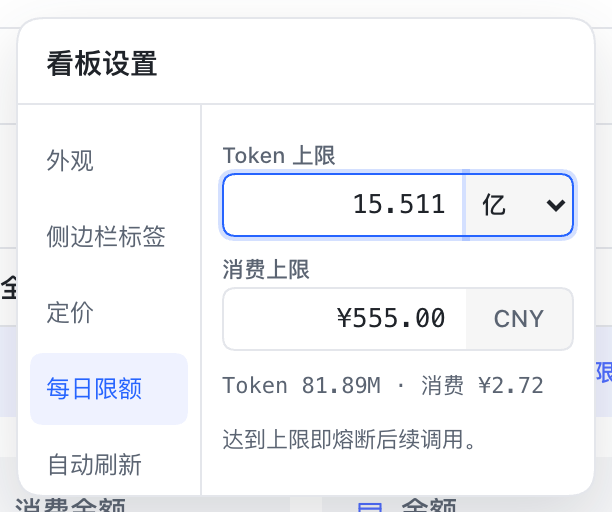
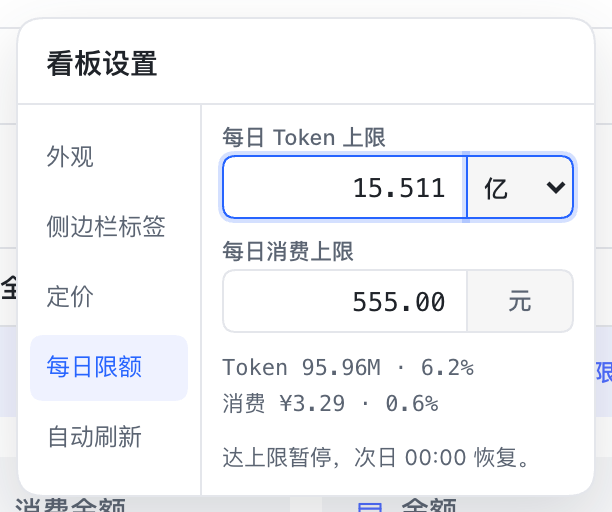
feat: refine the daily limit layout

diff --git a/src/client.js b/src/client.js
@@ -1036,9 +1036,13 @@ function BudgetSettings(props) {
     if (limits.cny.enabled) usage.push("消费 " + (status.cny == null ? "—" : fmtMoney(status.cny)) + " / " + fmtMoney(limits.cny.limit));
   }
   var used = [];
+  function share(value, limit) {
+    if (value == null || !(limit > 0)) return "";
+    return " · " + (Math.round(value / limit * 1000) / 10) + "%";
+  }
   if (status && !pending && status.enabled && limits) {
-    if (limits.tokens.enabled) used.push("Token " + (status.tokens == null ? "—" : fmtK(status.tokens)));
-    if (limits.cny.enabled) used.push("消费 " + (status.cny == null ? "—" : fmtMoney(status.cny)));
+    if (limits.tokens.enabled) used.push("Token " + (status.tokens == null ? "—" : fmtK(status.tokens)) + share(status.tokens, limits.tokens.limit));
+    if (limits.cny.enabled) used.push("消费 " + (status.cny == null ? "—" : fmtMoney(status.cny)) + share(status.cny, limits.cny.limit));
   }
   var optimistic = false;
   if (pending && props.today && limits) {
@@ -1062,7 +1066,7 @@ function BudgetSettings(props) {
   }
   return jsxs("div", { className: "d-budget-settings", children: [
     draft ? ["tokens", "cny"].map(function (key) {
-      var token = key === "tokens", label = token ? "Token 上限" : "消费上限", disabled = !info.status.storageAvailable;
+      var token = key === "tokens", label = token ? "每日 Token 上限" : "每日消费上限", disabled = !info.status.storageAvailable;
       return jsxs("div", { className: "d-fx-row", onBlur: token ? function (event) {
         if (!event.currentTarget.contains(event.relatedTarget)) save(key, event.currentTarget.querySelector("input"));
       } : undefined, children: [
@@ -1070,18 +1074,18 @@ function BudgetSettings(props) {
         token || edit === key ? jsx("input", { className: "d-fx-input" + (token && tokenOver ? " d-fx-invalid" : ""), type: "number", min: 0, max: token ? 999 : undefined,
           step: token ? "any" : "0.01", inputMode: "decimal", autoFocus: !token, "aria-label": "每日" + label, placeholder: "不限", disabled: disabled, value: draft[key],
           "aria-invalid": token && tokenOver ? true : undefined, onChange: function (event) { change(key, event); }, onBlur: token ? undefined : function (event) { setEdit(""); save(key, event.currentTarget); }, onKeyDown: enter }) :
-          jsx("button", { type: "button", className: "d-fx-btn", disabled: disabled, title: "点击修改" + label, onClick: function () { setEdit(key); }, children: draft.cny === "" ? "不限" : fmtMoney(Number(draft.cny)) }),
+          jsx("button", { type: "button", className: "d-fx-btn", disabled: disabled, title: "点击修改" + label, onClick: function () { setEdit(key); }, children: draft.cny === "" ? "不限" : Number(draft.cny).toFixed(2) }),
         token ? jsx("select", { className: "d-settings-select d-token-limit-unit", "aria-label": "Token 上限单位", disabled: disabled, value: draft.tokenUnit,
           onChange: function (event) { change("tokenUnit", event); }, children: ["亿", "千万", "百万"].map(function (unit, i) { return jsx("option", { value: 10 ** (8 - i), children: unit }, unit); }) }) :
-          jsx("span", { className: "d-fx-unit", children: "CNY" }),
+          jsx("span", { className: "d-fx-unit", children: "元" }),
+        token && tokenOver ? jsx("small", { className: "d-budget-invalid", role: "alert", children: "最多填 999，当前 " + String(draft.tokens) }) : null,
       ] }, key);
     }) : null,
-    used.length && !blocked ? jsx("div", { className: "d-budget-usage", children: used.join(" · ") }) : null,
-    tokenOver ? jsx("small", { className: "d-budget-invalid", role: "alert", children: "每种单位最多 999，超出不会保存" }) : null,
-    tokenOver ? null : jsxs("small", { className: "d-budget-hint", role: blocked ? "alert" : "status", title: usage.length ? usageSource + "已用 " + usage.join(" · ") : undefined, children: [
+    used.length && !blocked && !tokenOver ? jsx("div", { className: "d-budget-usage", children: used.map(function (line, i) { return jsx("span", { children: line }, i); }) }) : null,
+    jsxs("small", { className: "d-budget-hint", role: blocked ? "alert" : "status", title: usage.length ? usageSource + "已用 " + usage.join(" · ") : undefined, children: [
       blocked
         ? jsx("b", { children: "已达到每日限额，后续调用已熔断；次日 00:00 或提高限额后恢复" })
-        : jsx("span", { children: "达到上限即熔断后续调用。" + (incomplete ? "统计不完整，按已知用量判断。" : "") }),
+        : jsx("span", { children: "达上限暂停，次日 00:00 恢复。" + (incomplete ? "统计不完整，按已知用量判断。" : "") }),
     ] }),
     error || saved || (info && !info.status.storageAvailable) ? jsx("span", { className: "d-budget-inline-status" + (error ? " d-budget-warning" : ""), role: error ? "alert" : "status", title: error || (info ? budgetLabel(info) : ""), children: error || (saved ? "每日限额已保存" : "宿主配置存储不可用") }) : null,
   ] });
@@ -1621,7 +1625,7 @@ function Dialog(props) {
                         onBlur: saveFx,
                          onKeyDown: function(e){if(e.key==="Enter")e.currentTarget.blur();},
                       }) : jsx("button", { type: "button", className: "d-fx-btn", onClick: function () { setFxDraft(String(fx)); setFxEdit(true); }, title: "点击修改 USD 兑 CNY 汇率", "data-tooltip": "点击修改汇率，按 Enter 或移开焦点保存", children: fx }),
-                       jsx("span", { className: "d-fx-unit", children: "CNY" }),
+                       jsx("span", { className: "d-fx-unit", children: "元" }),
                     ] }),
                     jsx("small", { className: "d-rate-description", children: "配置模型定价" }),
                     jsx("button", {

diff --git a/src/panel.css b/src/panel.css
@@ -3015,13 +3015,13 @@ div:has(> [data-slot='sidebar.footer.action']){flex-wrap:wrap}.d-seat-layer{flex
   display: flex;
   flex-direction: column;
   gap: 2px;
-  padding: 8px 6px;
+  padding: 6px 6px;
   border-right: 1px solid var(--d-border);
 }
 .d-usage .d-settings-nav-item {
   width: 100%;
-  min-height: 36px;
-  padding: 7px 8px;
+  min-height: 33px;
+  padding: 6px 8px;
   border: 0;
   border-radius: var(--d-radius-sm);
   background: transparent;
@@ -3439,7 +3439,6 @@ div:has(> [data-slot='sidebar.footer.action']){flex-wrap:wrap}.d-seat-layer{flex
 .d-usage .d-rank-row:focus-visible { outline: 2px solid var(--d-accent); outline-offset: 2px; border-radius: 4px; }
 .d-usage .d-settings-panel.d-settings-tab-appearance > .d-settings-appearance { transform: translateY(-2px); }
 .d-usage .d-settings-panel.d-settings-tab-budget > .d-settings-budget { align-content: center; gap: 8px; padding: 8px 10px; overflow: hidden; }
-/* 左侧导航已经高亮「每日限额」，页内再写一遍是同义重复，去掉把高度留给字段与用量。 */
 .d-usage .d-settings-panel.d-settings-tab-budget > .d-settings-budget > .d-fx-heading { display: none; }
 /* 每日限额：标签在上、金额与单位合成一个控件，组间距 > 组内间距。 */
 .d-usage .d-budget-settings {
@@ -3473,7 +3472,7 @@ div:has(> [data-slot='sidebar.footer.action']){flex-wrap:wrap}.d-seat-layer{flex
   font: 500 11px/1 var(--d-font-body);
 }
 
-/* 金额与单位是一整个控件：左半输入、右半单位，共用一条外框。 */
+/* 金额 + 单位合成一个控件。 */
 .d-usage .d-budget-settings .d-fx-input,
 .d-usage .d-budget-settings .d-fx-btn {
   grid-column: 1;
@@ -3499,7 +3498,7 @@ div:has(> [data-slot='sidebar.footer.action']){flex-wrap:wrap}.d-seat-layer{flex
 
 .d-usage .d-budget-settings .d-fx-btn { display: flex; align-items: center; justify-content: flex-end; }
 
-/* 焦点落在整组（金额 + 单位）上，描边一起点亮，不在控件中间断开。 */
+/* 焦点落在整组上，描边一起点亮。 */
 .d-usage .d-budget-settings .d-fx-row:focus-within .d-fx-input,
 .d-usage .d-budget-settings .d-fx-row:focus-within .d-fx-btn,
 .d-usage .d-budget-settings .d-fx-row:focus-within .d-token-limit-unit,
@@ -3508,23 +3507,18 @@ div:has(> [data-slot='sidebar.footer.action']){flex-wrap:wrap}.d-seat-layer{flex
   box-shadow: 0 0 0 2px color-mix(in srgb, var(--d-accent) 20%, transparent);
 }
 
-.d-usage .d-budget-settings .d-fx-row:has(.d-fx-invalid) .d-token-limit-unit {
+.d-usage .d-budget-settings .d-fx-row:has(.d-fx-invalid) .d-fx-input {
   border-color: var(--d-danger);
   color: var(--d-danger);
+  box-shadow: 0 0 0 2px color-mix(in srgb, var(--d-danger) 18%, transparent);
 }
 
-.d-usage .d-budget-settings .d-fx-row:has(.d-fx-invalid) .d-fx-input,
-.d-usage .d-budget-settings .d-fx-row:has(.d-fx-invalid) .d-fx-btn,
-.d-usage .d-budget-settings .d-fx-row:has(.d-fx-invalid):focus-within .d-fx-input,
+/* 出错的是金额，不是单位：单位保持中性，红框只圈数字区。 */
+.d-usage .d-budget-settings .d-fx-row:has(.d-fx-invalid) .d-token-limit-unit,
 .d-usage .d-budget-settings .d-fx-row:has(.d-fx-invalid):focus-within .d-token-limit-unit {
-  border-color: var(--d-danger);
-  color: var(--d-danger);
+  border-color: var(--d-border);
+  color: var(--d-fg);
   box-shadow: none;
-}
-
-.d-usage .d-budget-settings .d-fx-row:has(.d-fx-invalid):focus-within .d-fx-input,
-.d-usage .d-budget-settings .d-fx-row:has(.d-fx-invalid):focus-within .d-token-limit-unit {
-  box-shadow: 0 0 0 2px color-mix(in srgb, var(--d-danger) 20%, transparent);
 }
 
 .d-usage .d-budget-settings .d-token-limit-unit,
@@ -3539,21 +3533,20 @@ div:has(> [data-slot='sidebar.footer.action']){flex-wrap:wrap}.d-seat-layer{flex
   margin: 0;
   padding: 0 4px;
   border: 1px solid var(--d-border);
-  border-left: 0;
   border-radius: 0 8px 8px 0;
   background: color-mix(in srgb, var(--d-fg) 4%, var(--d-surface));
   color: var(--d-muted);
   font: 500 12px/1 var(--d-font-body);
 }
 
-.d-usage .d-budget-settings .d-token-limit-unit { color: var(--d-fg); }
+.d-usage .d-budget-settings .d-token-limit-unit { color: var(--d-fg); font-variant-numeric: tabular-nums; }
 
 
 
-/* 今日已用 / 上限：一行密集的对账信息，用等宽数字对齐。 */
+/* 今日已用与占比。 */
 .d-usage .d-budget-usage {
   display: grid;
-  gap: 2px;
+  gap: 1px;
   min-width: 0;
   color: var(--d-muted);
   font: 400 11px/1.5 var(--d-font-mono);
@@ -3564,7 +3557,7 @@ div:has(> [data-slot='sidebar.footer.action']){flex-wrap:wrap}.d-seat-layer{flex
 .d-usage .d-budget-inline-status { min-width: 0; margin-top: 0; color: var(--d-muted); font: 400 11.5px/1.5 var(--d-font-body); text-align: left; overflow-wrap: anywhere; text-wrap: pretty; }
 .d-usage .d-budget-inline-status.d-budget-warning { color: var(--d-danger); }
 
-.d-usage .d-budget-invalid { min-width: 0; color: var(--d-danger); font: 500 11px/1.45 var(--d-font-body); }
+.d-usage .d-budget-settings .d-budget-invalid { grid-column: 1 / -1; grid-row: 3; min-width: 0; margin-top: 2px; color: var(--d-danger); font: 500 11px/1.4 var(--d-font-body); }
 .d-usage .d-budget-hint { display: grid; gap: 2px; min-width: 0; color: var(--d-muted); font: 400 11px/1.5 var(--d-font-body); overflow-wrap: anywhere; text-wrap: pretty; }
 .d-usage .d-budget-hint b { color: var(--d-danger); font-weight: 600; }
 

diff --git a/test/client-settings.test.js b/test/client-settings.test.js
@@ -188,7 +188,7 @@ test("token over-limit marks the input instead of printing a bottom error", () =
   assert.match(source, /d-fx-input" \+ \(token && tokenOver \? " d-fx-invalid"/, "超限时输入框标红");
   assert.match(source, /"aria-invalid": token && tokenOver \? true/, "红色状态同时暴露给无障碍树");
   assert.doesNotMatch(source, /rangeOverflow \? "Token 上限每种单位最多 999"/, "不再走设置底部的错误文案通道");
-  assert.match(source, /tokenOver \? jsx\("small", \{ className: "d-budget-invalid", role: "alert", children: "每种单位最多 999，超出不会保存" \}\)/, "标红之外给出可读提示");
+  assert.match(source, /token && tokenOver \? jsx\("small", \{ className: "d-budget-invalid", role: "alert", children: "最多填 999，当前 " \+ String\(draft\.tokens\) \}\)/, "标红之外在字段正下方给出可读提示");
   assert.match(css, /d-fx-input\.d-fx-invalid\s*\{[^}]*var\(--d-danger\)/, "红色来自现有危险色令牌");
   assert.match(css, /d-budget-invalid\s*\{[^}]*var\(--d-danger\)/, "提示文字与边框同色系");
 });

diff --git a/docs/ui-review/daily-limit-input-width.md b/docs/ui-review/daily-limit-input-width.md
@@ -55,28 +55,46 @@ budget     360×240 无越界        refresh 360×240 无越界
 
 ## 1.0.3 的排版重做
 
-改版前的限额页是「标签 + 输入框 + 单位」硬挤在一行，290px 面板里只能给数字 41.9px。1.0.3 按下面的结构重排：
+改版前的限额页把「标签 + 输入框 + 单位」硬挤在一行，290px 面板里只能给数字 41.9px；也没有任何「今天用了多少」的信息。
 
 ```
-Token 上限                                   ← 11px / 500 / muted，独占一行
+每日 Token 上限                                   ← 11px / 500 / muted
 ┌──────────────────────────────┬──────────┐
-│                     15.511   │  亿  ▾   │   ← 金额右对齐 13px mono；单位是同一个控件里的后缀
+│                     15.511   │  亿  ▾   │     ← 金额右对齐 13px mono；单位是同一控件里的后缀
 └──────────────────────────────┴──────────┘
-消费上限
+每日消费上限
 ┌──────────────────────────────┬──────────┐
-│                     ¥555.00  │   CNY    │
+│                     555.00   │   元     │
 └──────────────────────────────┴──────────┘
-Token 81.89M · 消费 ¥2.72                    ← 今日已用，11px mono
-达到上限即熔断后续调用。                      ← 说明 / 超限警告 / 熔断警告共用这一行
+Token 92.75M · 6%                                ← 今日已用 + 占比，11px mono
+消费 ¥3.21 · 0.6%
+达上限暂停，次日 00:00 恢复。                      ← 后果 + 恢复时间，常驻
 ```
+
+超限时：数字区红框 + 红字，提示在字段正下方 `最多填 999，当前 1000`；单位保持中性，说明行不消失。
 
 对应军规：
 
-- **规则 03 / 09**：层级靠「11px 灰标签、13px 等宽数值、10px 灰色说明」三档字号加字重，不靠放大；标签与控件间距 4px、两组之间 10px，组间距明显大于组内间距。
-- **规则 05**：去掉页内重复的「每日限额」标题——左侧导航已经高亮同名分页，省下的 26px 换成「今日 Token · 消费」的对账行。
-- **规则 15**：超限时同时改文字（「每种单位最多 999，超出不会保存」）、整组描边与数字颜色，不只靠颜色。
-- **规则 19**：删除行外框，只保留金额控件自身的 1px 边框；分组靠留白与 10px 间距，而不是画格子。
-- **规则 25**：聚焦时金额与单位作为一个控件整体点亮（`border-color` + 2px 柔光环），失焦即自动保存，状态在底部一行回显。
+- **规则 03 / 09**：11px 灰标签、13px 等宽数值、11px 说明三档；标签与控件间距 4px，两组之间 10px，组间距大于组内间距。
+- **规则 05**：删掉页内重复的「每日限额」标题（左侧导航已高亮同名分页），省下的高度留给对账行。
+- **规则 15**：超限同时改文字、数字颜色与边框，不只靠颜色；后果说明始终可见。
+- **规则 19**：删除整行外框，只留金额控件自身 1px 边框；单位区用 4% 底色区分，分隔线三态一致。
+- **规则 25**：聚焦时金额与单位作为一个控件整体点亮（边框 + 2px 柔光环），失焦自动保存，状态在底部一行回显。
+
+## 独立评审
+
+派了一个只看画面、不看代码的独立评审（10 分制），初评 6.0 分，指出的主要问题与处理：
+
+| 评审意见 | 处理 |
+|---|---|
+| 上限与已用量纲不一致，看不出离熔断多远 | 已用量加百分比：`Token 92.75M · 6%`；上限保留所选单位 |
+| 错误信息离字段 96px，还挤掉了熔断说明 | 错误行移进 Token 字段第三行（贴字段），说明行常驻 |
+| 单位区被一起染红／点亮，错误归属不清 | 红框只圈数字区，单位保持中性 |
+| ¥ 与 CNY 两种币种写法并存 | 字段内统一为「555.00 元」，汇总行仍用 ¥ |
+| 没写「每日」、恢复时间与「不限」语义 | 标签加「每日」；说明补「达上限暂停，次日 00:00 恢复。」；空值占位仍是「不限」 |
+| 左栏末项贴底被裁 | 分页项 36 → 33px、内边距 8 → 6px，末项底部留 14px |
+
+未处理：关闭按钮、进度条、保存时间戳（属弹层公共骨架，不在本页范围）。
 
 ## 证据
 
@@ -84,6 +102,6 @@ Token 81.89M · 消费 ¥2.72                    ← 今日已用，11px mono
 
 ![聚焦态：金额与单位整组点亮](daily-limit-panel-focus.png)
 
-![超限态：整组转红并给出可读提示](daily-limit-panel-invalid.png)
+![超限态：红框只圈数字区，提示贴着字段](daily-limit-panel-invalid.png)
 
-实测：面板 290×240，限额行宽 196px，金额控件 122px + 单位 54px；正常 / 聚焦 / 超限 / 熔断四种状态都没有溢出（`scrollHeight = clientHeight`）。
+实测：面板 290×240，金额控件 122px + 单位 54px；正常 / 聚焦 / 超限 / 熔断四态均无溢出（`scrollHeight = clientHeight`），左栏末项底部距面板底 14px。

diff --git a/CHANGELOG.md b/CHANGELOG.md
@@ -5,11 +5,11 @@ Release，正文即为插件市场「更新内容」里显示的版本说明。
 
 ## 1.0.3 — 2026-11-22
 
-- 重做「每日限额」排版：每项改成「标签在上 + 金额与单位合为一个控件」，数字右对齐、单位作后缀（Token 用 亿/千万/百万 下拉，消费固定 CNY）；数字框可用宽度从 41.9px 提到 122px。
-- 新增一行对账信息：`Token 81.89M · 消费 ¥2.72`，直接看到今日已用，不再只有上限输入。
-- 面板保持 290×240 与原设置页一致，五个分页共用同一尺寸，切换不再改大小；超限红字、熔断提示出现时都不挤压、不裁切。
-- 焦点与错误态走整组描边：聚焦时金额与单位一起点亮，超限时整组转红并显示「每种单位最多 999，超出不会保存」。
-- 116 项回归测试通过（含限额行版式与「所有分页共用固定面板」的守护），客户端体积与安装包完整性检查通过。
+- 重做「每日限额」排版：每项是「每日 Token 上限 / 每日消费上限」标签 + 一个金额与单位合一的控件，数字右对齐、单位作后缀（亿／千万／百万 或 元），金额区可用宽度 122px（此前 41.9px）。
+- 新增今日对账两行：`Token 92.75M · 6%`、`消费 ¥3.21 · 0.6%`，直接看出离熔断还有多远，不用心算亿与 M 的换算。
+- 说明行常驻并写清后果与恢复时间：「达上限暂停，次日 00:00 恢复。」；超限时红框只圈数字区，提示紧贴字段下方（「最多填 999，当前 1000」），不再把说明挤掉。
+- 面板仍是 290×240，与外观／定价等分页完全一致；同时把左侧分页项压缩到 33px，末项「自动刷新」不再贴底被裁。
+- 116 项回归测试通过（含限额版式与固定面板守护），客户端体积与安装包完整性检查通过。
 
 ## 1.0.2 — 2026-11-22
 
